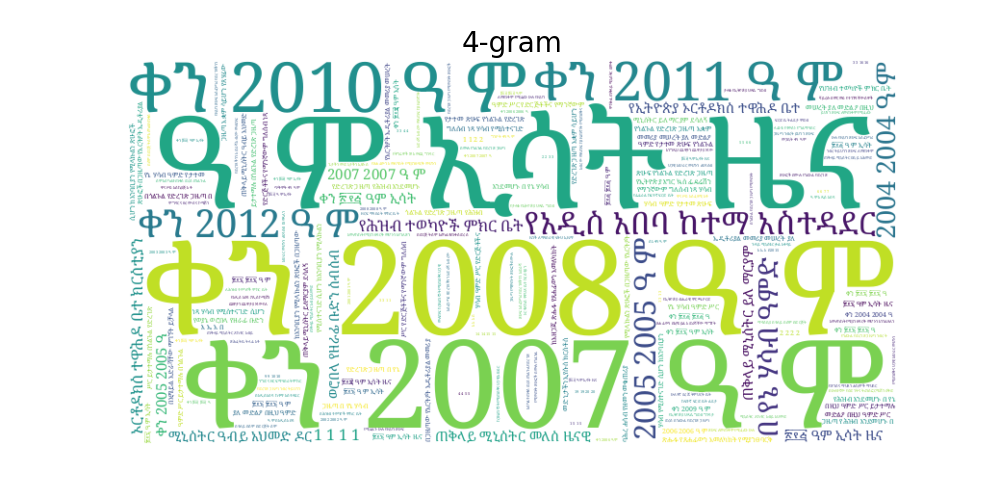
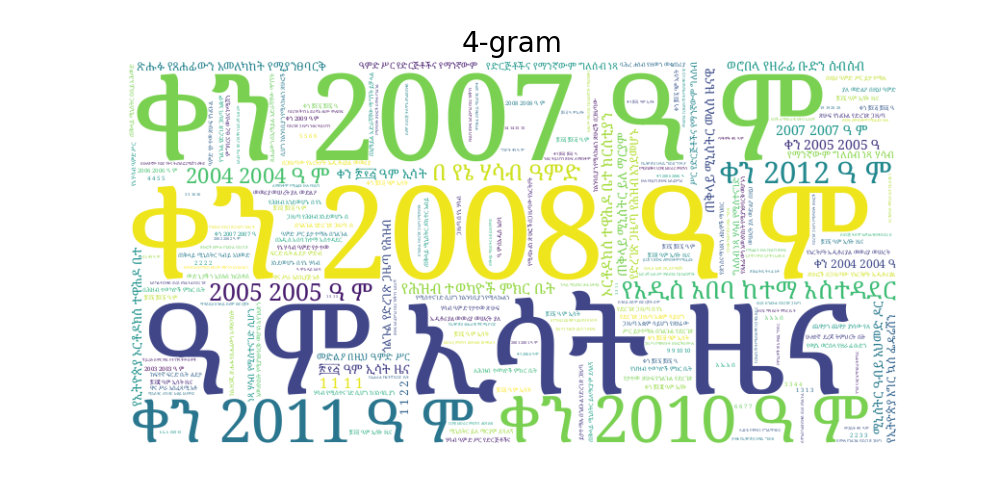
question 1.6 completed

diff --git a/main.py b/main.py
@@ -1,7 +1,7 @@
 from tokenizer import Tokenizer
 from corpus_spliter import CorpusSplitter
 from ngram import NGram
-from utils import hdf5_data_loader,stop_word_reader
+from utils import hdf5_data_loader,stop_word_reader,calculate_sentence_probability
 import argparse
 def test_punctuation_and_load_data():
     #  # Tokenize the text with punctuation removal
@@ -13,13 +13,42 @@ def test_punctuation_and_load_data():
     # Path to the stop words file
     pass
 
-
+def sentence_probability():
+    # sentence ngram
+    # sentence = ['ኢትዮጵያ ታሪካዊ ሀገር ናት']
+    sentence = ['መረባረብ ነው ስለዚህ ደርግም']
+    sentence_tokenizer=Tokenizer(sentence)
+    sentence_tokens=sentence_tokenizer.tokenize(remove_punctuation=True)
+    NGram.tokens=sentence_tokens
+    sentence_gram_4=NGram(4)
+    sentence_gram_4.generate()
+    # print(sentence_gram_4.get_ngrams())
+    # print(sentence_gram_4.probabilities())
+    NGram.tokens=tokens
+    gram_4=NGram(4)
+    gram_4.generate()
+    # print(gram_4.probabilities())
+    probability=calculate_sentence_probability(sentence_gram_4,gram_4)
+    print(f'probability of {sentence} is {probability:.7f}')
+    
+    
+def compare_ngrams_wordcount():
+    n=4
+    # before
+    print(len(tokens))
+    create_n_gram(n,tokens,"4-gram")
+    # after
+    tokens = tokenizer.tokenize(remove_punctuation=True,stop_words=stop_words)
+    print(len(tokens))
+    create_n_gram(n,tokens,"4-gram")
+    # stop_word_reader_test()
 def create_n_gram(n,tokens,title):
     # Create an NGram instance
-    ngram = NGram(tokens)
-    ngram.generate(n)
+    NGram.tokens=tokens
+    gram_4=NGram(n)
+    gram_4.generate()
     # ngram.display()
-    ngram.create_wordcloud(title)
+    gram_4.create_wordcloud(title)
     # Calculate probabilities
     # print("\nProbabilities:")
     # probabilities = ngram.probabilities()
@@ -70,14 +99,3 @@ if __name__ == "__main__":
     # print('after stop word removed',len_after)
     # print("difference ",len_before-len_after)
     
-    # print(tokens)
-    n=4
-    # before
-    print(len(tokens))
-    create_n_gram(n,tokens,"4-gram")
-    # after
-    tokens = tokenizer.tokenize(remove_punctuation=True,stop_words=stop_words)
-    print(len(tokens))
-    create_n_gram(n,tokens,"4-gram")
-    # stop_word_reader_test()
-   

diff --git a/ngram.py b/ngram.py
@@ -4,23 +4,21 @@ from wordcloud import WordCloud
 import matplotlib.pyplot as plt
 
 class NGram:
-    def __init__(self, tokens: List[str]):
-        """
-        Initialize the NGram class with a list of tokens.
-        :param tokens: List of words (tokens) from input text.
-        """
-        self._tokens = tokens
+    tokens: List[str]
+    def __init__(self,n:int):
+        self.n=n
         self._ngram_dict = None
         self._ngram_probabilities = None
 
-    def generate(self, n: int) -> None:
+    def generate(self) -> None:
         ngram_dict = defaultdict(int)
-        for i in range(len(self._tokens) - n + 1):
-            ngram = tuple(self._tokens[i:i + n])
+        for i in range(len(NGram.tokens) - self.n + 1):
+            ngram = tuple(NGram.tokens[i:i + self.n])
             ngram_dict[ngram] += 1
         self._ngram_dict = dict(ngram_dict)
         self._ngram_probabilities = None  # Invalidate probabilities if n-grams change
-
+    def get_ngrams(self):
+        return self._ngram_dict
     def _calculate_probabilities(self) -> None:
         if self._ngram_dict is None:
             raise ValueError("N-grams have not been generated. Call `generate()` first.")
@@ -30,10 +28,6 @@ class NGram:
         }
     
     def probabilities(self) -> Dict[Tuple[str, ...], float]:
-        """
-        Get probabilities for the generated n-grams.
-        :return: Dictionary of n-grams and their probabilities.
-        """
         if self._ngram_probabilities is None:
             self._calculate_probabilities()
         return self._ngram_probabilities

diff --git a/utils.py b/utils.py
@@ -54,3 +54,14 @@ def hdf5_data_loader(chunk_size, start_index=0):
 
         # Return the decoded chunk data and the new end index
         return total_chunks,chunk_data_decoded, end_index
+def calculate_sentence_probability(sentence_ngrams,ngrams):
+        sentence_prob = 1.0
+        for ngram, count in sentence_ngrams.get_ngrams().items():
+            print(ngram)
+            if ngram in ngrams.probabilities():
+              
+                print(ngrams.probabilities())
+                sentence_prob *= ngrams.probabilities().get(ngram) ** count  # Multiply with probability for each occurrence of the ngram
+            else:
+                sentence_prob *= 0  # If n-gram not found in the probabilities, assume probability 0
+        return sentence_prob

diff --git a/tokenizer.py b/tokenizer.py
@@ -15,5 +15,6 @@ class Tokenizer:
         tokens = text_to_tokenize.split()
         if stop_words:
             tokens = self._remove_stop_words(tokens, stop_words)
+       
         return tokens
 
